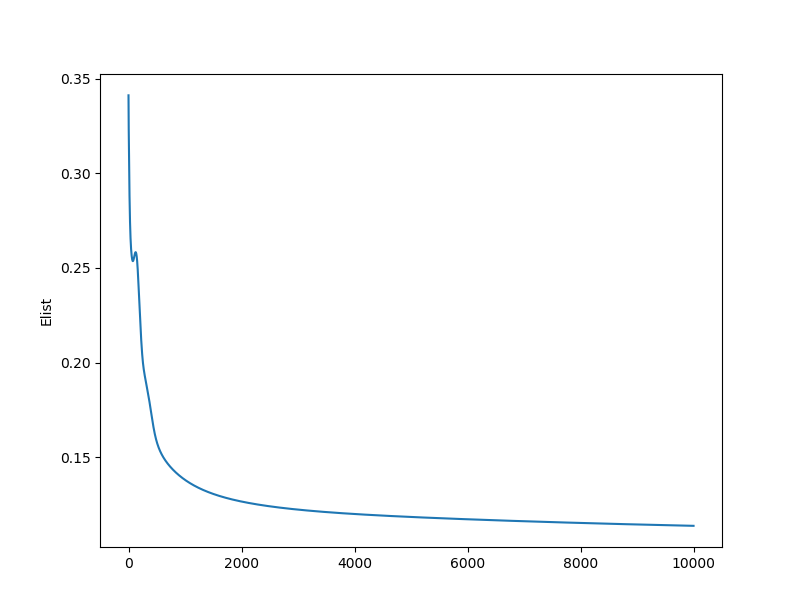
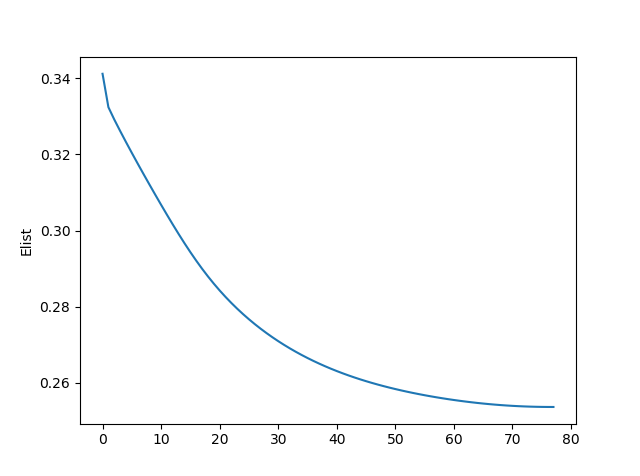
Ajustes no código do segundo projeto.

diff --git a/MLP/MLP/Projeto2/MLP.py b/MLP/MLP/Projeto2/MLP.py
@@ -4,13 +4,12 @@ import numpy as np
 import matplotlib.pyplot as plt
 
 
-treinamentoNumero = 0 #Nesse caso, a mudança é no momentum, então ele serve apenas como semente para o random
+treinamentoNumero = 0
 file = "out" + str(treinamentoNumero) + ".txt"
 f = open(file, 'w')
-sys.stdout = f #Em vez de jogar para o console, coloca no arquivo de texto, para facilitar para o relatório
-print("Versão do compilador: " + sys.version)
+f.write("Versão do compilador: " + sys.version)
 
-np.random.seed(treinamentoNumero) # Mesma seed tanto para com momentum quanto sem momentum, para garantir mesmos pesos
+np.random.seed(treinamentoNumero) #Mesma seed tanto para com momentum quanto sem momentum
 
 def importData(file, _nIn, _nOut):
 	dados = np.array(pd.read_excel(file))
@@ -19,19 +18,18 @@ def importData(file, _nIn, _nOut):
 	x[:, _nIn:] = np.ones([len(dados),1]) * -1
 	return x, d, len(dados), _nIn, _nOut
 
-#Dados de treino e de teste
+###leituraa dos dados do ex2
 xTreino, dTreino, sTreino, nIn, nOut = importData('373926-Treinamento_projeto_2_MLP.xls', 4, 3)
 xTeste,  dTeste,  sTeste,  nIn, nOut = importData('373923-Teste_projeto_2_MLP.xls', 4, 3)
 
+###caracteristicas da rede
 aprendizado = 0.1
-momentum = 0 #0 faz o mesmo que não haver momento, para o teste com momento, a variavel recebe 0.9
-precisao = 10e-6
-#Limite de épocas para o treino, para a precisão atual não é necessário, porém para precisões maiores é essencial
-epocasMax = 13000 
+momentum = 0.9
+Emax = 1e-7
+epocasMax = 13000		#limite de epocas para o treino
 
-#1 oculta e 1 de saída
+#1 ocultas e 1 de saida
 camadas = 2
-
 n = [15, nOut]
 
 def g(x):
@@ -43,9 +41,9 @@ def dg(x):
 
 x, d, size = xTreino, dTreino, sTreino
 
-#Seção de treino
+# Treino
 w = []
-w.append(np.random.random([n[0], nIn + 1]) * 2 - 1) #inicializa os pesos entre -1 e 1, seed setada pelo numpy
+w.append(np.random.random([n[0], nIn + 1]) * 2 - 1) #inicializa os pesos entre -1 e 1
 for j in range(1, camadas):
 	w.append(np.random.random([n[j], n[j - 1] + 1]) * 2 - 1)
 
@@ -63,28 +61,27 @@ s = []
 for j in range(camadas):
 	s.append(np.ones((n[j])))
 
-#Inicia as variaveis auxiliares
 w0 = w.copy()
 wn = w.copy()
-wAnterior1 = w.copy()
-wAnterior2 = w.copy()
+wa1 = w.copy()
+wa2 = w.copy()
 
 epocas = 0
-erro = 0
-erroAnterior = precisao+1 # não precisa ser 1, apenas maior que precisão, para entrar no while
-listaErro = [] #Para gerar gráfico
+E = 0
+Eant = 1
+Elist = []
 
-while (abs(erroAnterior - erro) > precisao and epocas < epocasMax):
-    erroAnterior = erro
-    erro = 0
+while (abs(Eant - E) > Emax and epocas < epocasMax):
+    Eant = E
+    E = 0
 
-#Tanto para saber que esta rodando quanto para confirmar o gráfico
-    print("Epoca: " + str(epocas) + " Erro: " + str(erroAnterior))
+    print("Epoca: " + str(epocas) + " Erro: " + str(Eant))
 
     for i in range(size):
-        wAnterior2 = wAnterior1.copy()
-        wAnterior1 = w.copy()
+        wa2 = wa1.copy()
+        wa1 = w.copy()
 
+		############################## Forward
         l[0] = np.dot(w[0], x[i])
         for j in range(n[0]):
             y[0][j] = g(l[0][j])
@@ -94,7 +91,7 @@ while (abs(erroAnterior - erro) > precisao and epocas < epocasMax):
             for j in range(n[c]):
                 y[c][j] = g(l[c][j])
 
-		#Backward
+		############################## Backward ###
         c = camadas - 1
         for j in range(n[c]):
             s[c][j] = (d[i][j] - y[c][j]) * dg(l[c][j])
@@ -111,9 +108,10 @@ while (abs(erroAnterior - erro) > precisao and epocas < epocasMax):
 
 
         for c in range(camadas):
-            w[c] = wn[c] + momentum * (wAnterior1[c] - wAnterior2[c])
+            w[c] = wn[c] + momentum * (wa1[c] - wa2[c])
 
     for i in range(size):
+		############################## Forward ###
         l[0] = np.dot(w[0], x[i])
         for j in range(n[0]):
             y[0][j] = g(l[0][j])
@@ -126,30 +124,31 @@ while (abs(erroAnterior - erro) > precisao and epocas < epocasMax):
         er = 0
         for j in range(nOut):
             er = er + ((d[i][j] - y[camadas - 1][j]) ** 2)
-        erro = erro + 0.5 * er
-    erro = erro / size
-    listaErro.append(erro)
+        E = E + 0.5 * er
+    E = E / size
+    Elist.append(E)
     epocas = epocas + 1
 
 
-
-#Seção de teste
+############################################################
+############  Teste
 x, d, size = xTeste,  dTeste,  sTeste
 
-resultado = np.zeros([size, 2 * nOut])
-resultado[:, :nOut] = d
-resultadoClassificado = resultado.copy()
-erro = 0
+res = np.zeros([size, 2 * nOut])
+res[:, :nOut] = d
+resSat = res.copy()
+E = 0
 
-l = []
+l = []		#l = [np.zeros(n[0]), np.zeros(n[1])]
 for j in range(camadas):
 	l.append(np.zeros(n[j]))
-y = []
+y = []		#y = [np.zeros(n[0]+1), np.zeros(n[1])]
 for j in range(camadas - 1):
 	y.append(np.zeros(n[j] + 1))
 y.append(np.zeros(n[camadas - 1] + 1))
 
 for i in range(size):
+	############################## Forward ###
 	l[0] = np.dot(w[0], x[i])
 	for j in range(n[0]):
 		y[0][j] = g(l[0][j])
@@ -160,27 +159,23 @@ for i in range(size):
 			y[c][j] = g(l[c][j])
 	for j in range(n[camadas - 1]):
 		if y[camadas - 1][j] < 0.5:
-			resultadoClassificado[i, nOut + j] = 0
+			resSat[i, nOut + j] = 0
 		else:
-			resultadoClassificado[i, nOut + j] = 1
-		resultado[i, nOut + j] = y[camadas - 1][j]
+			resSat[i, nOut + j] = 1
+		res[i, nOut + j] = y[camadas - 1][j]
 	er = 0
 	for j in range(n[camadas - 1]):
-		er = er + ((d[i][j] - resultado[i][j+nOut]) ** 2)
-		erro = erro + 0.5 * er #Apesar de na classificação não haver diferença, nos valores em si há
-	erro = erro + 0.5 * er
-	print("entrada:\t" + str(i) +  "\tesperado:\t" + str(d[i]) + "\tobtido:\t" + str(resultado[i]) + "\n") #Resultado do teste, para a tabela e matriz de confusão
-erro = erro / size
+		er = er + ((d[i][j] - res[i][j+nOut]) ** 2)
+		E = E + 0.5 * er
+	E = E + 0.5 * er
+	f.write("entrada:\t" + str(i) +  "\tesperado:\t" + str(d[i]) + "\tobtido:\t" + str(res[i]) + "\n")
+E = E / size
 
 
-print(np.matrix(resultado))
+print(np.matrix(res))
 
-#Erros do teste
-print('Eqm: ' + str(erro))
-print('dEqm: ' + str(abs(listaErro[len(listaErro) - 1] - listaErro[len(listaErro) - 2]))) #Se tiver sido bloqueado pelo número máximo de épocas
-print('epocas: ' + str(epocas))
+print('Eqm: ' + str(E) + '    dEqm: ' + str(abs(Elist[len(Elist) - 1] - Elist[len(Elist) - 2])) + '    epocas: ' + str(epocas))
 
-#Plota num gráfico a lista de erros
-plt.plot(listaErro)
+plt.plot(Elist)
 plt.ylabel('Elist')
 plt.show()
